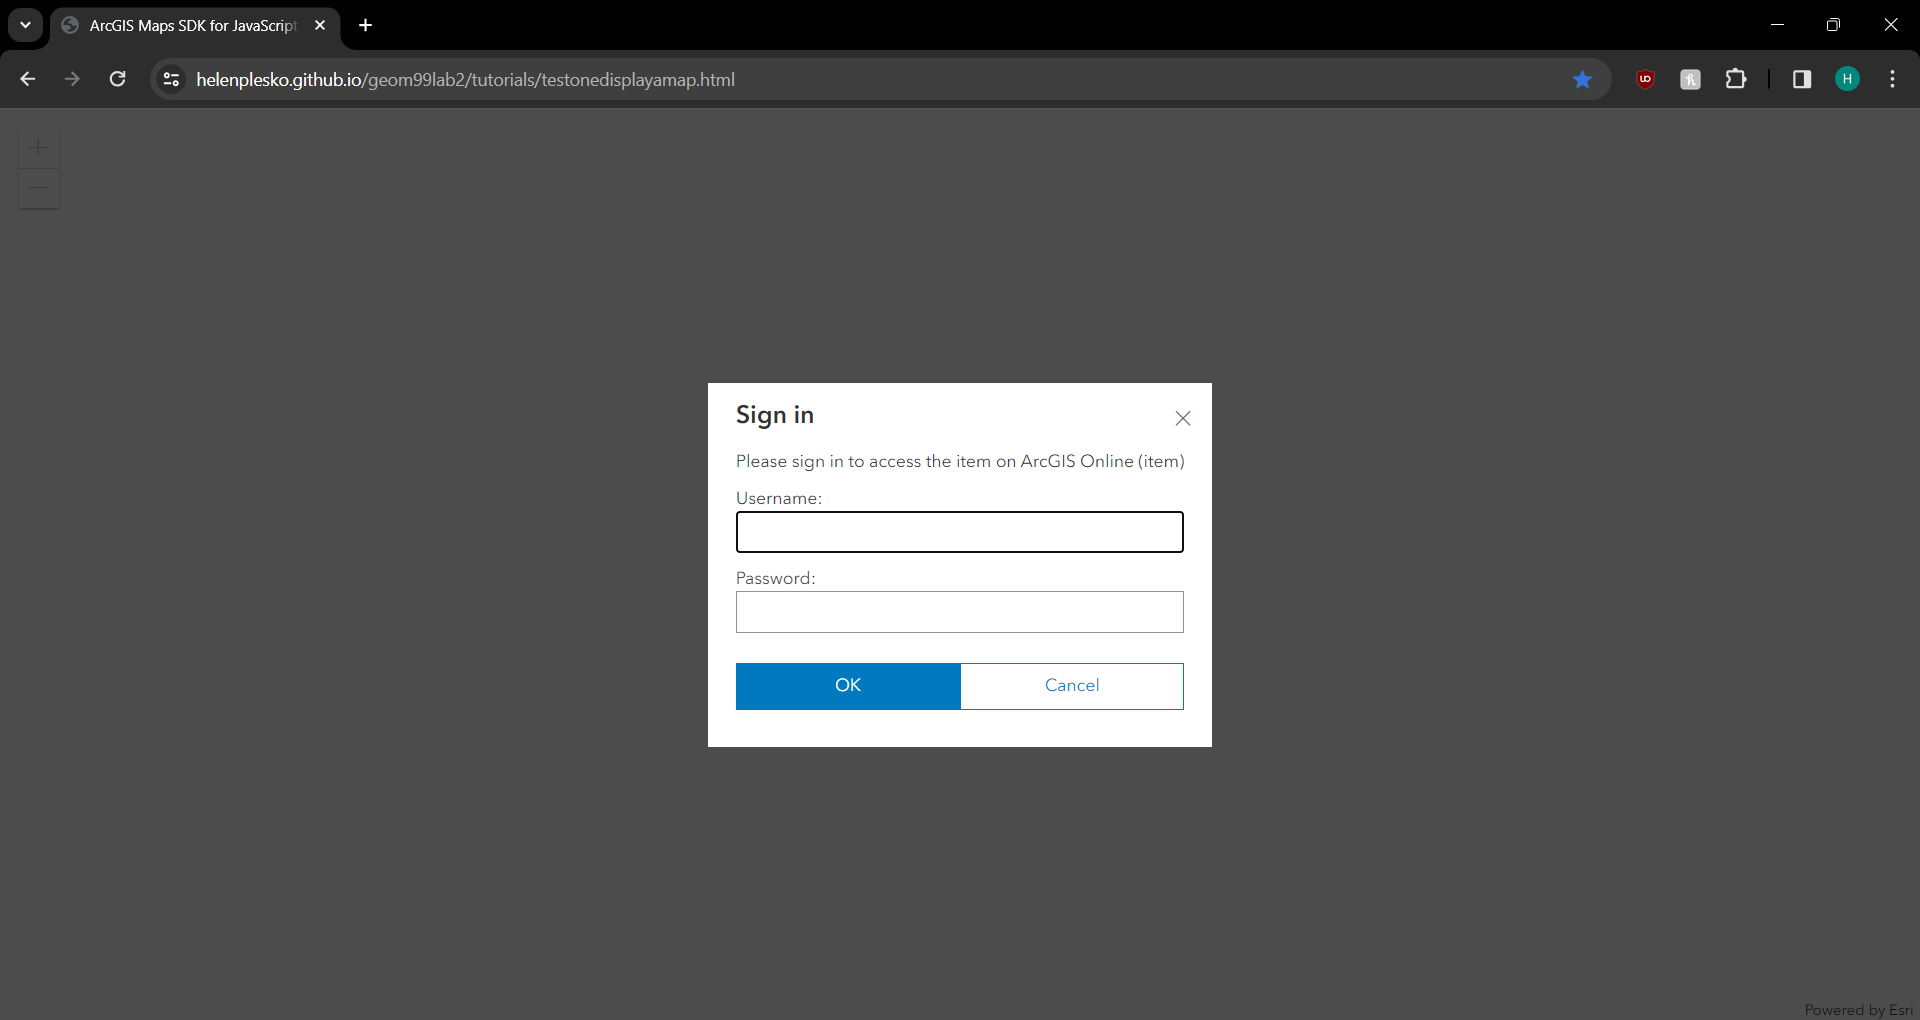
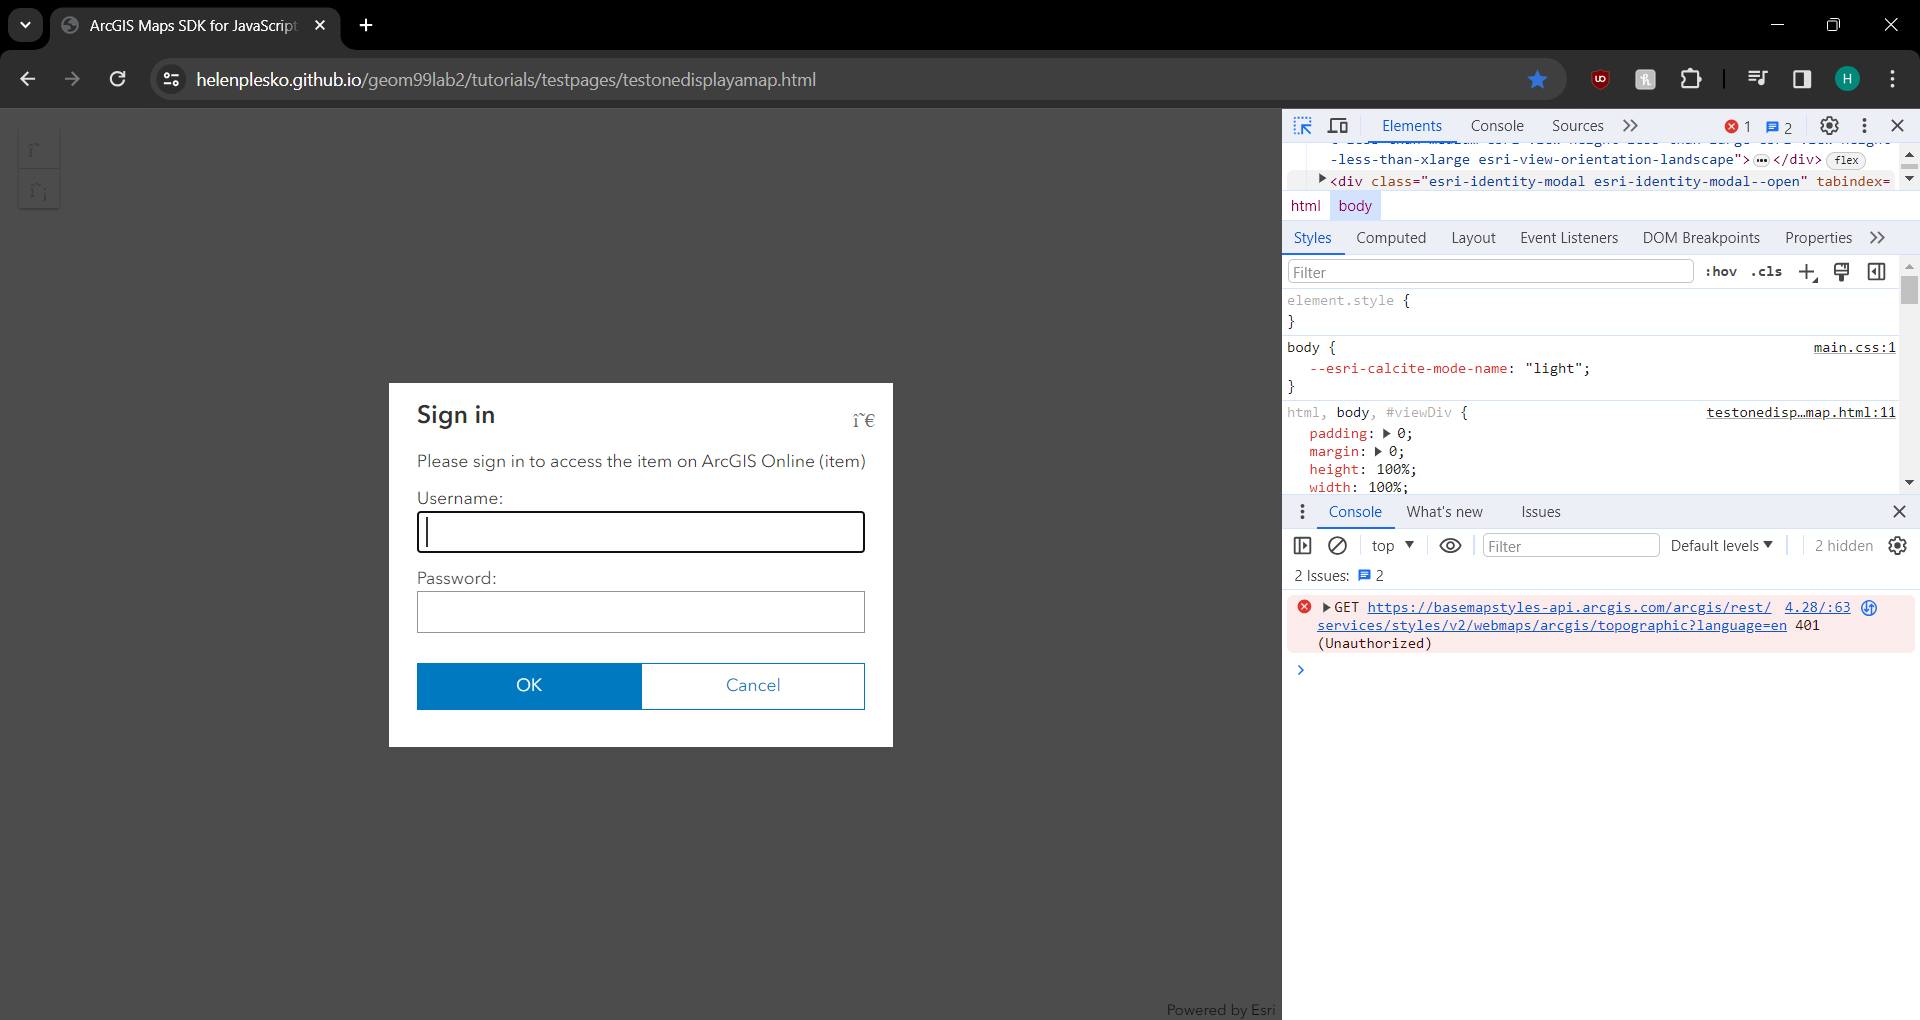
changing version and updating bug reports

diff --git a/tutorials/bonusfindplaces.html b/tutorials/bonusfindplaces.html
@@ -20,8 +20,8 @@
         </style>
 
         <!-- References to the CSS file and JS library -->
-        <link rel="stylesheet" href="https://js.arcgis.com/4.19/esri/themes/light/main.css">
-        <script src="https://js.arcgis.com/4.19/"></script>
+        <link rel="stylesheet" href="https://js.arcgis.com/4.28/esri/themes/light/main.css" />
+        <script src="https://js.arcgis.com/4.28/"></script>
 
         <!-- Load the Map and MapView modules with the require function -->
         <script>
@@ -39,7 +39,7 @@
 
                 // Creating new map, where the basemap is navigation
                 const map = new Map({
-                    basemap: "arcgis-navigation" // basemap styles service accessed with API Key
+                    basemap: "arcgis/navigation" // basemap styles service accessed with API Key
                 });
 
                 // Create a MapView, so the map is centered on Tromso

diff --git a/tutorials/bugreports/bugbonusfindplaces.md b/tutorials/bugreports/bugbonusfindplaces.md
@@ -1,0 +1,66 @@
+# Bug Report for Tutorial 3 (Bonus): Find places
+
+## Describe the bug
+
+The purpose of the ArcGIS Maps SDK for JavaScript "Find places" Tutorial is to create a map that allows you to see places on the map depending on the category chosen. It allows you to click the graphics as well, to find the name and address of the places in a pop-up. However, after completing the tutorial and opening the html page in Google Chrome, nothing appears.
+
+## Steps to reproduce bug
+
+The bug doesn't happen sporatically for me, it happens every time. Here are the steps to duplicating the bug:
+
+1. Complete the ArcGIS Maps SDK for JavaScript ["Add a point, line, and polygon"](https://developers.arcgis.com/javascript/latest/tutorials/add-a-point-line-and-polygon/) Tutorial. Add API Key to code. Save the code in VSCode, then commit and push to the GitHub repository. 
+2. Open the page URL in web browser.
+3. Ctl+Shift+C to inspect page and see the errors.
+
+## Expected result
+
+The code in the tutorial is expected to display a map that allows you to see places on the map depending on the category chosen. It also allows you to click the graphics as well, to find the name and address of the places in a pop-up. Here is a screenshot taken from the tutorial page:
+
+![Expected Result](/tutorials/bugimages/expectedaddpointlinepolygon.png)
+
+## Results from the bug
+
+The bug produced no map and two errors:
+
+URL:
+```
+https://helenplesko.github.io/geom99lab2/tutorials/addpointlinepolygon.html
+```
+
+![Errors](/tutorials/bugimages/bugaddpointlinepolygon.png)
+
+## Attempts to debug
+
+### Attempt 1: Comment out API key
+
+The first attempt to debugging this was to comment out the API key, as there was an error retrieving authorization. This change didn't produce a map. Instead, a window popped up where I had to sign into AGOL to see the item. My login wasn't working, and I wondered if it was because we need to sign into Fleming organization when signing in to AGOL.
+
+URL to map:
+```
+https://helenplesko.github.io/geom99lab2/tutorials/testpages/testoneaddpointlinepolygon.html
+```
+
+![Attempt 1 results](/tutorials/bugimages/testoneaddpointlinepolygon.png)
+
+### Attempt 2: Use a different code
+
+For the second attempt, I used the older version of the stylesheet, reference to ArcGIS, and basemaps. The code can be found in the "Display a map (2D)" tutorial. 
+
+![Older version of code](/tutorials/bugimages/olderversioncode.png)
+
+I used this code and it produced the following, which I believe is a closer result to what we want the map to display:
+
+URL to map:
+```
+https://helenplesko.github.io/geom99lab2/tutorials/testpages/testtwoaddpointlinepolygon.html
+```
+
+![Attempt 2 results](/tutorials/bugimages/testtwoaddpointlinepolygon.png)
+
+## Environment Details
+
+- VSCode was used to make, commit, and push changes to GitHub.
+- Google Chrome is the web browser used to open maps.
+- The problem is happening on my computer and on my iPhone.
+- API Key was made in ArcGIS Developers.
+- Referrer Link includes an * at the end.

diff --git a/tutorials/bugreports/bugaddpointlinepolygon.md b/tutorials/bugreports/bugaddpointlinepolygon.md
@@ -29,19 +29,31 @@ https://helenplesko.github.io/geom99lab2/tutorials/addpointlinepolygon.html
 
 ![Errors](/tutorials/bugimages/bugaddpointlinepolygon.png)
 
-## Steps taken in attempt to resolve issue
+## Attempts to debug
 
 ### Attempt 1: Comment out API key
 
 The first attempt to debugging this was to comment out the API key, as there was an error retrieving authorization. This change didn't produce a map. Instead, a window popped up where I had to sign into AGOL to see the item. My login wasn't working, and I wondered if it was because we need to sign into Fleming organization when signing in to AGOL.
 
+URL to map:
+```
+https://helenplesko.github.io/geom99lab2/tutorials/testpages/testoneaddpointlinepolygon.html
+```
+
 ![Attempt 1 results](/tutorials/bugimages/testoneaddpointlinepolygon.png)
 
 ### Attempt 2: Use a different code
 
-For the second attempt, I used the older version of the stylesheet, reference to ArcGIS, and basemaps found in the "Display a map (2D)" tutorial. I used this code and it produced the following, which I believe is a closer result to what we want the map to display:
+For the second attempt, I used the older version of the stylesheet, reference to ArcGIS, and basemaps. The code can be found in the "Display a map (2D)" tutorial. 
 
 ![Older version of code](/tutorials/bugimages/olderversioncode.png)
+
+I used this code and it produced the following, which I believe is a closer result to what we want the map to display:
+
+URL to map:
+```
+https://helenplesko.github.io/geom99lab2/tutorials/testpages/testtwoaddpointlinepolygon.html
+```
 
 ![Attempt 2 results](/tutorials/bugimages/testtwoaddpointlinepolygon.png)
 

diff --git a/tutorials/bugreports/bugdisplayamap.md b/tutorials/bugreports/bugdisplayamap.md
@@ -22,9 +22,14 @@ The code in the tutorial is expected to display a map that displays the topograp
 
 The bug produced no map and two errors:
 
+URL:
+```
+https://helenplesko.github.io/geom99lab2/tutorials/displayamap.html
+```
+
 ![Errors](/tutorials/bugimages/bugdisplayamap.png)
 
-## Steps taken in attempt to resolve issue
+## Attempts to debug
 
 ### Attempt 1: Comment out API key
 
@@ -32,7 +37,7 @@ The first attempt to debugging this was to comment out the API key, as there was
 
 URL to map:
 ```
-https://helenplesko.github.io/geom99lab2/tutorials/testonedisplayamap.html
+https://helenplesko.github.io/geom99lab2/tutorials/testpages/testonedisplayamap.html
 ```
 
 ![Attempt 1 results](/tutorials/bugimages/testonedisplayamap.png)
@@ -49,7 +54,7 @@ I used this code and it produced the following, which I believe is a closer resu
 
 URL to map:
 ```
-https://helenplesko.github.io/geom99lab2/tutorials/testtwodisplayamap.html
+https://helenplesko.github.io/geom99lab2/tutorials/testpages/testtwodisplayamap.html
 ```
 
 ![Attempt 2 results](/tutorials/bugimages/testtwodisplayamap.png)
